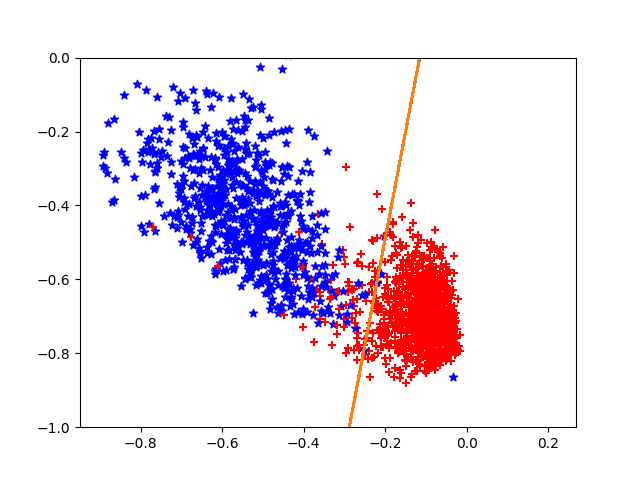
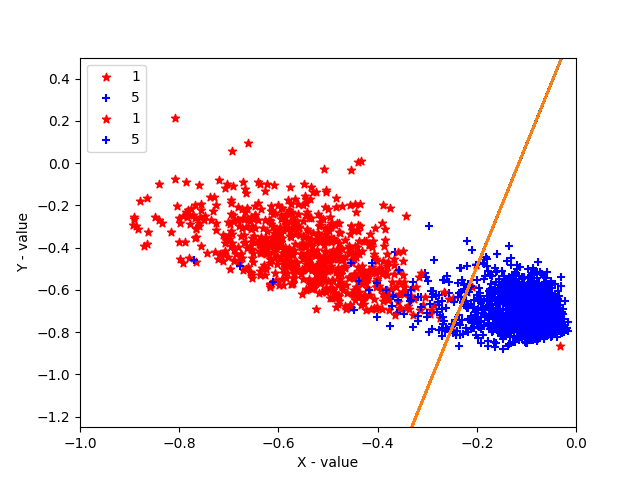
Commit before submit

diff --git a/HW1-1/code/solution.py b/HW1-1/code/solution.py
@@ -20,7 +20,7 @@ def show_images(data):
 
     for i in range(data.shape[0]):
 
-        imgplot=plt.imshow(data[i])
+        plt.imshow(data[i])
         plt.savefig('image_'+str(i)+'.png')
         plt.show()
     ### END YOUR CODE
@@ -42,21 +42,16 @@ def show_features(X, y, save=True):
     label=y
     x = X[:,0]
     y = X[:,1]
-
-
-
-    plt.scatter(x[label==1], y[label==1], marker='+',color='r')
-    plt.scatter(x[label==-1], y[label==-1], marker='*',color='b')
     
+    plt.scatter(x[label==-1], y[label==-1], marker='*',color='r',label='1')
+    plt.scatter(x[label==1], y[label==1], marker='+',color='b',label='5')
     
+    plt.xlabel('X - value')
+    plt.ylabel('Y - value')
+    plt.legend(loc='best')
     
-    
-    
-    
-    #plt.scatter(X[],y)
-    #plt.show()
-    #if (save):
-    #    plt.savefig("train_features.png")
+    if (save):
+      plt.savefig("train_features.png")
 
     ### END YOUR CODE
 
@@ -80,11 +75,8 @@ class Perceptron(object):
         ### YOUR CODE HERE
         
         n_samples, n_features=X.shape
-        X=np.c_[ X, np.ones(X.shape[0]) ]  
-        self.W=np.zeros(n_features+1)
+        X=np.c_[ X, np.ones(X.shape[0]) ]  #Add Bias column
         w=np.zeros(n_features+1)
-        
-        
 
         for i in range(self.max_iter):
             for index,row in enumerate(X):
@@ -151,8 +143,15 @@ class Perceptron(object):
         ### YOUR CODE HERE
 
         pred_y = self.predict(X)
+        
+        scr=0
+        
+        for i in range(len(y)):
+            if(y[i]==pred_y[i]):
+                scr+=1
+        scr=scr/len(y)
 
-        return np.mean(y == pred_y)
+        return scr
 
 
         ### END YOUR CODE
@@ -176,19 +175,18 @@ def show_result(X, y, W):
     """
     ### YOUR CODE HERE
    
-    show_features(X,y)
+    show_features(X,y,False)
     
     bias,weights=W[0],W[1:]
 
     
     line=(-(bias/weights[1])/(bias/weights[0]))*X+(-bias/weights[1])
-
     
+    plt.ylim(-1.25, 0.5)
+    plt.xlim(-1, 0)
     plt.plot(X,line)
-    plt.ylim(-1, 0)
     plt.savefig('model.png')
-    plt.show()
-    
+   
     
     #plt.plot()
 
